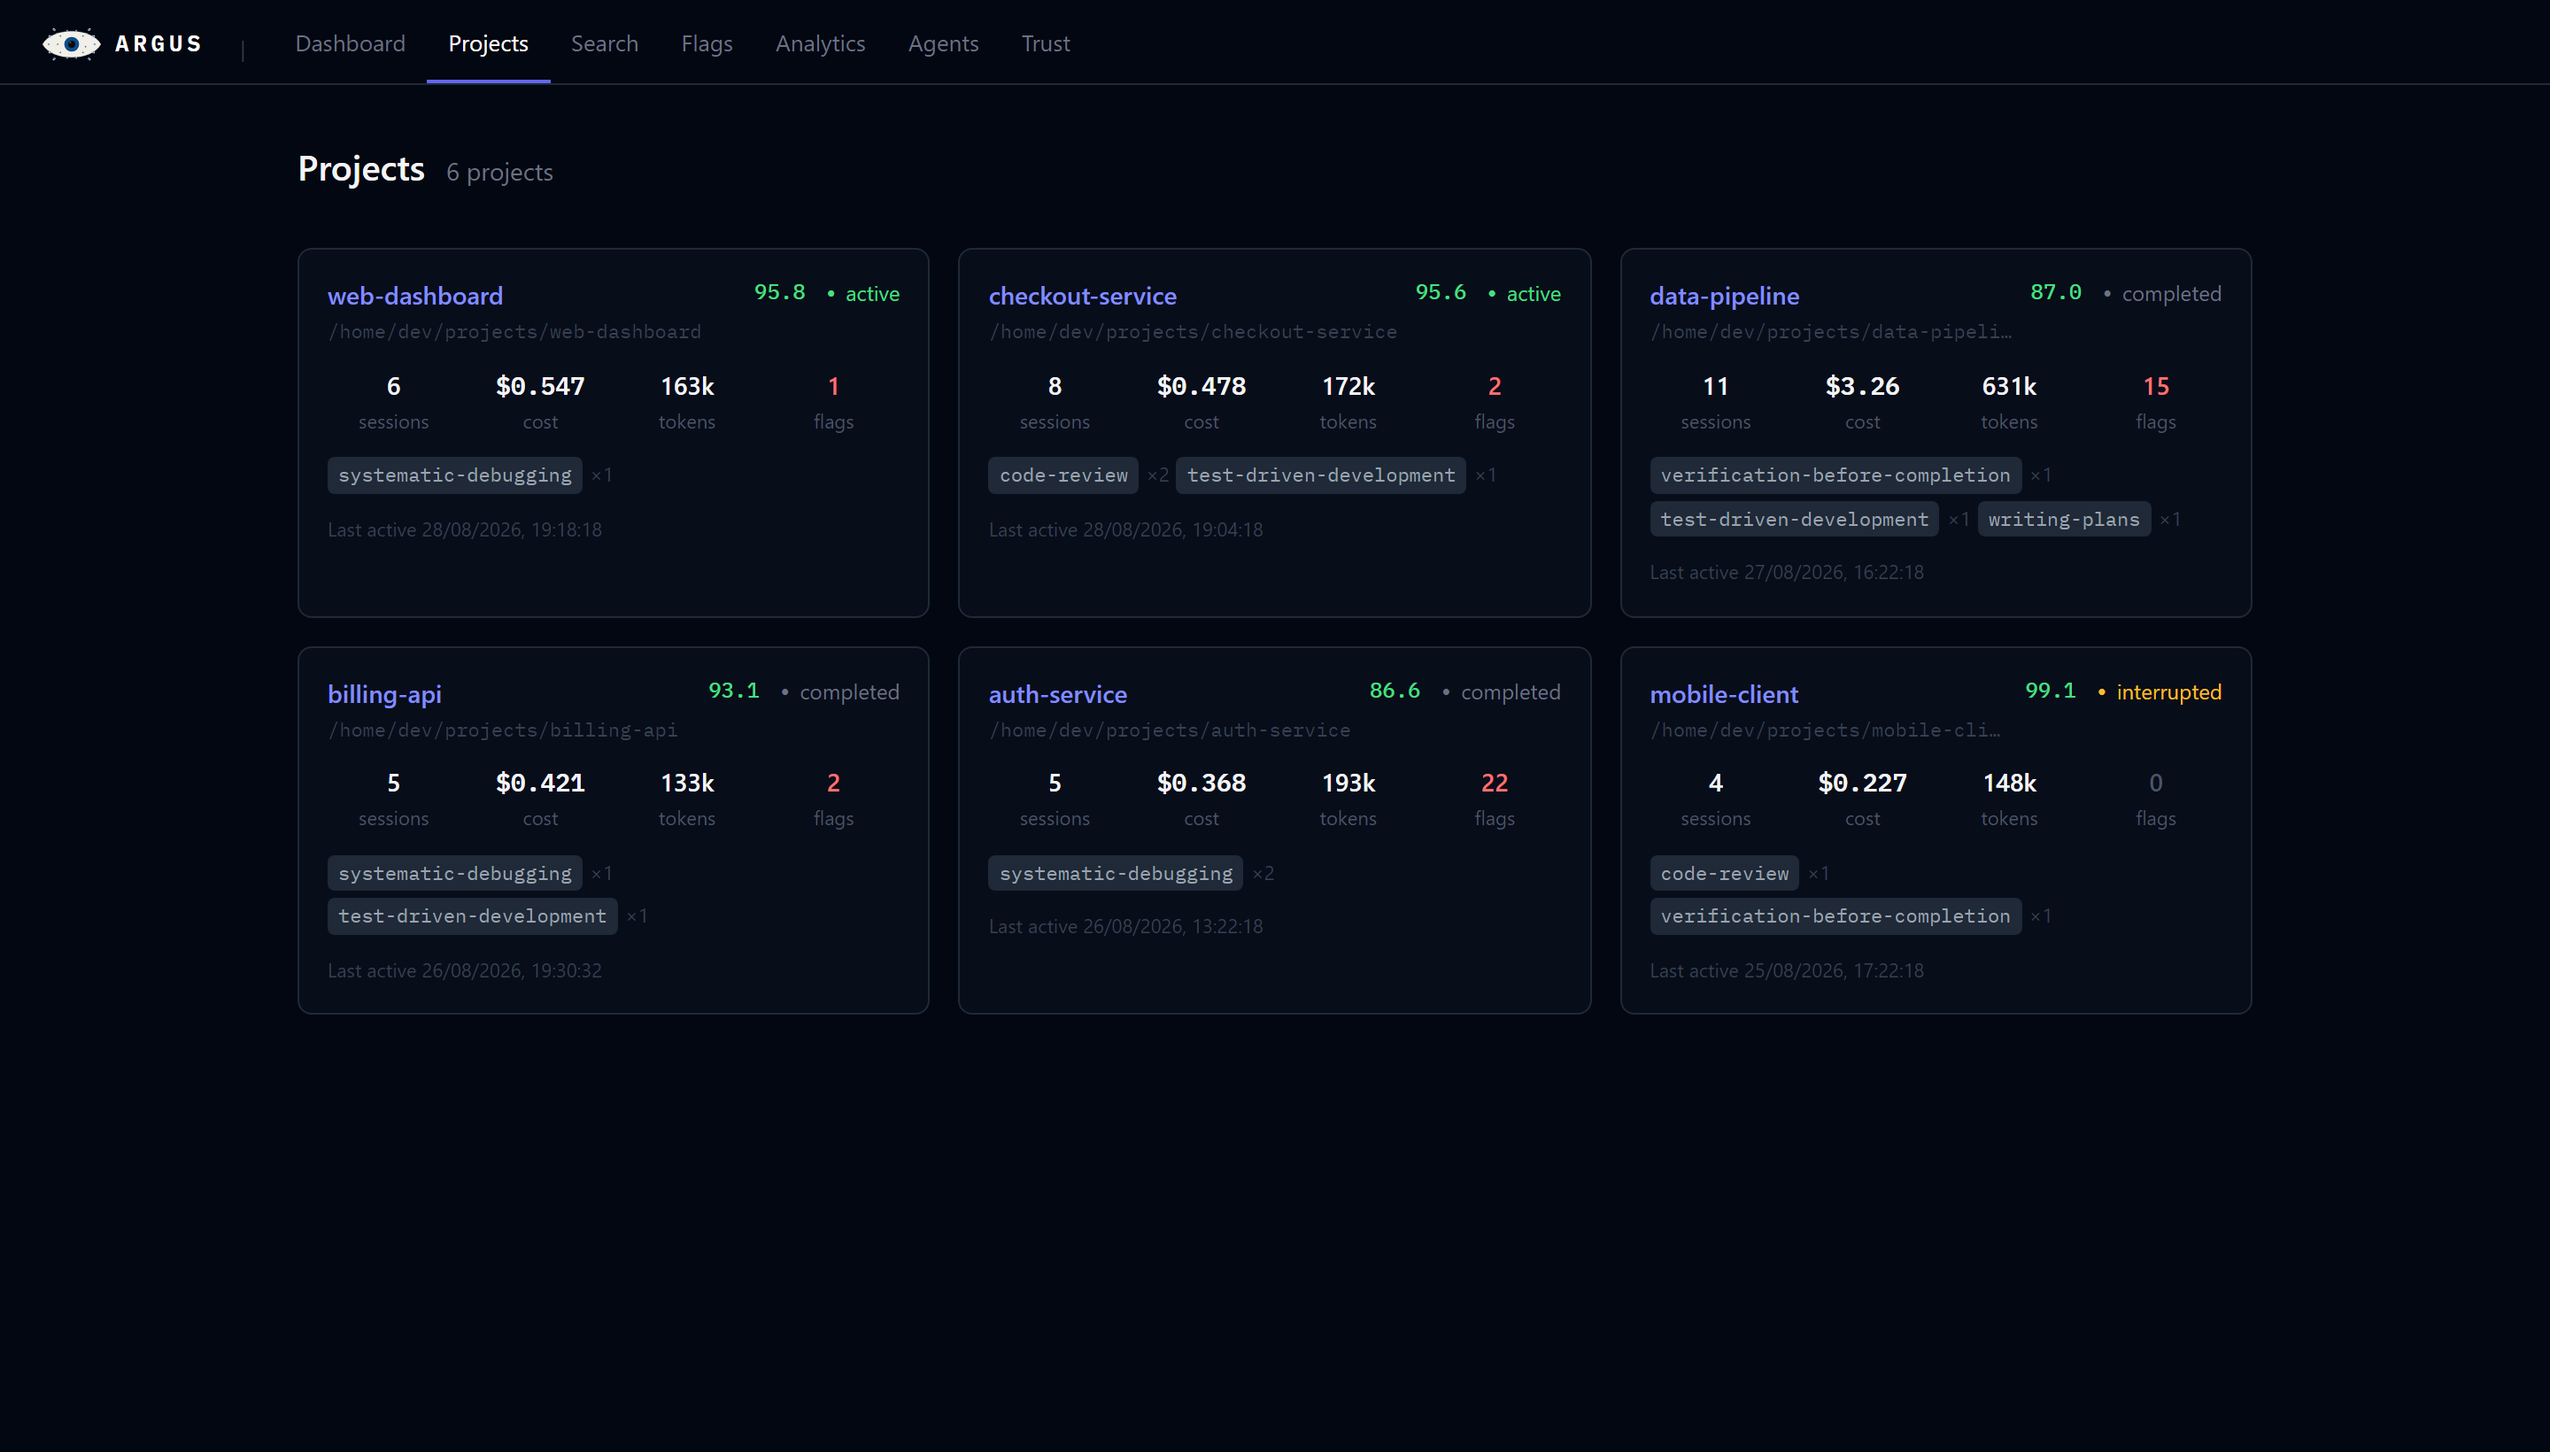
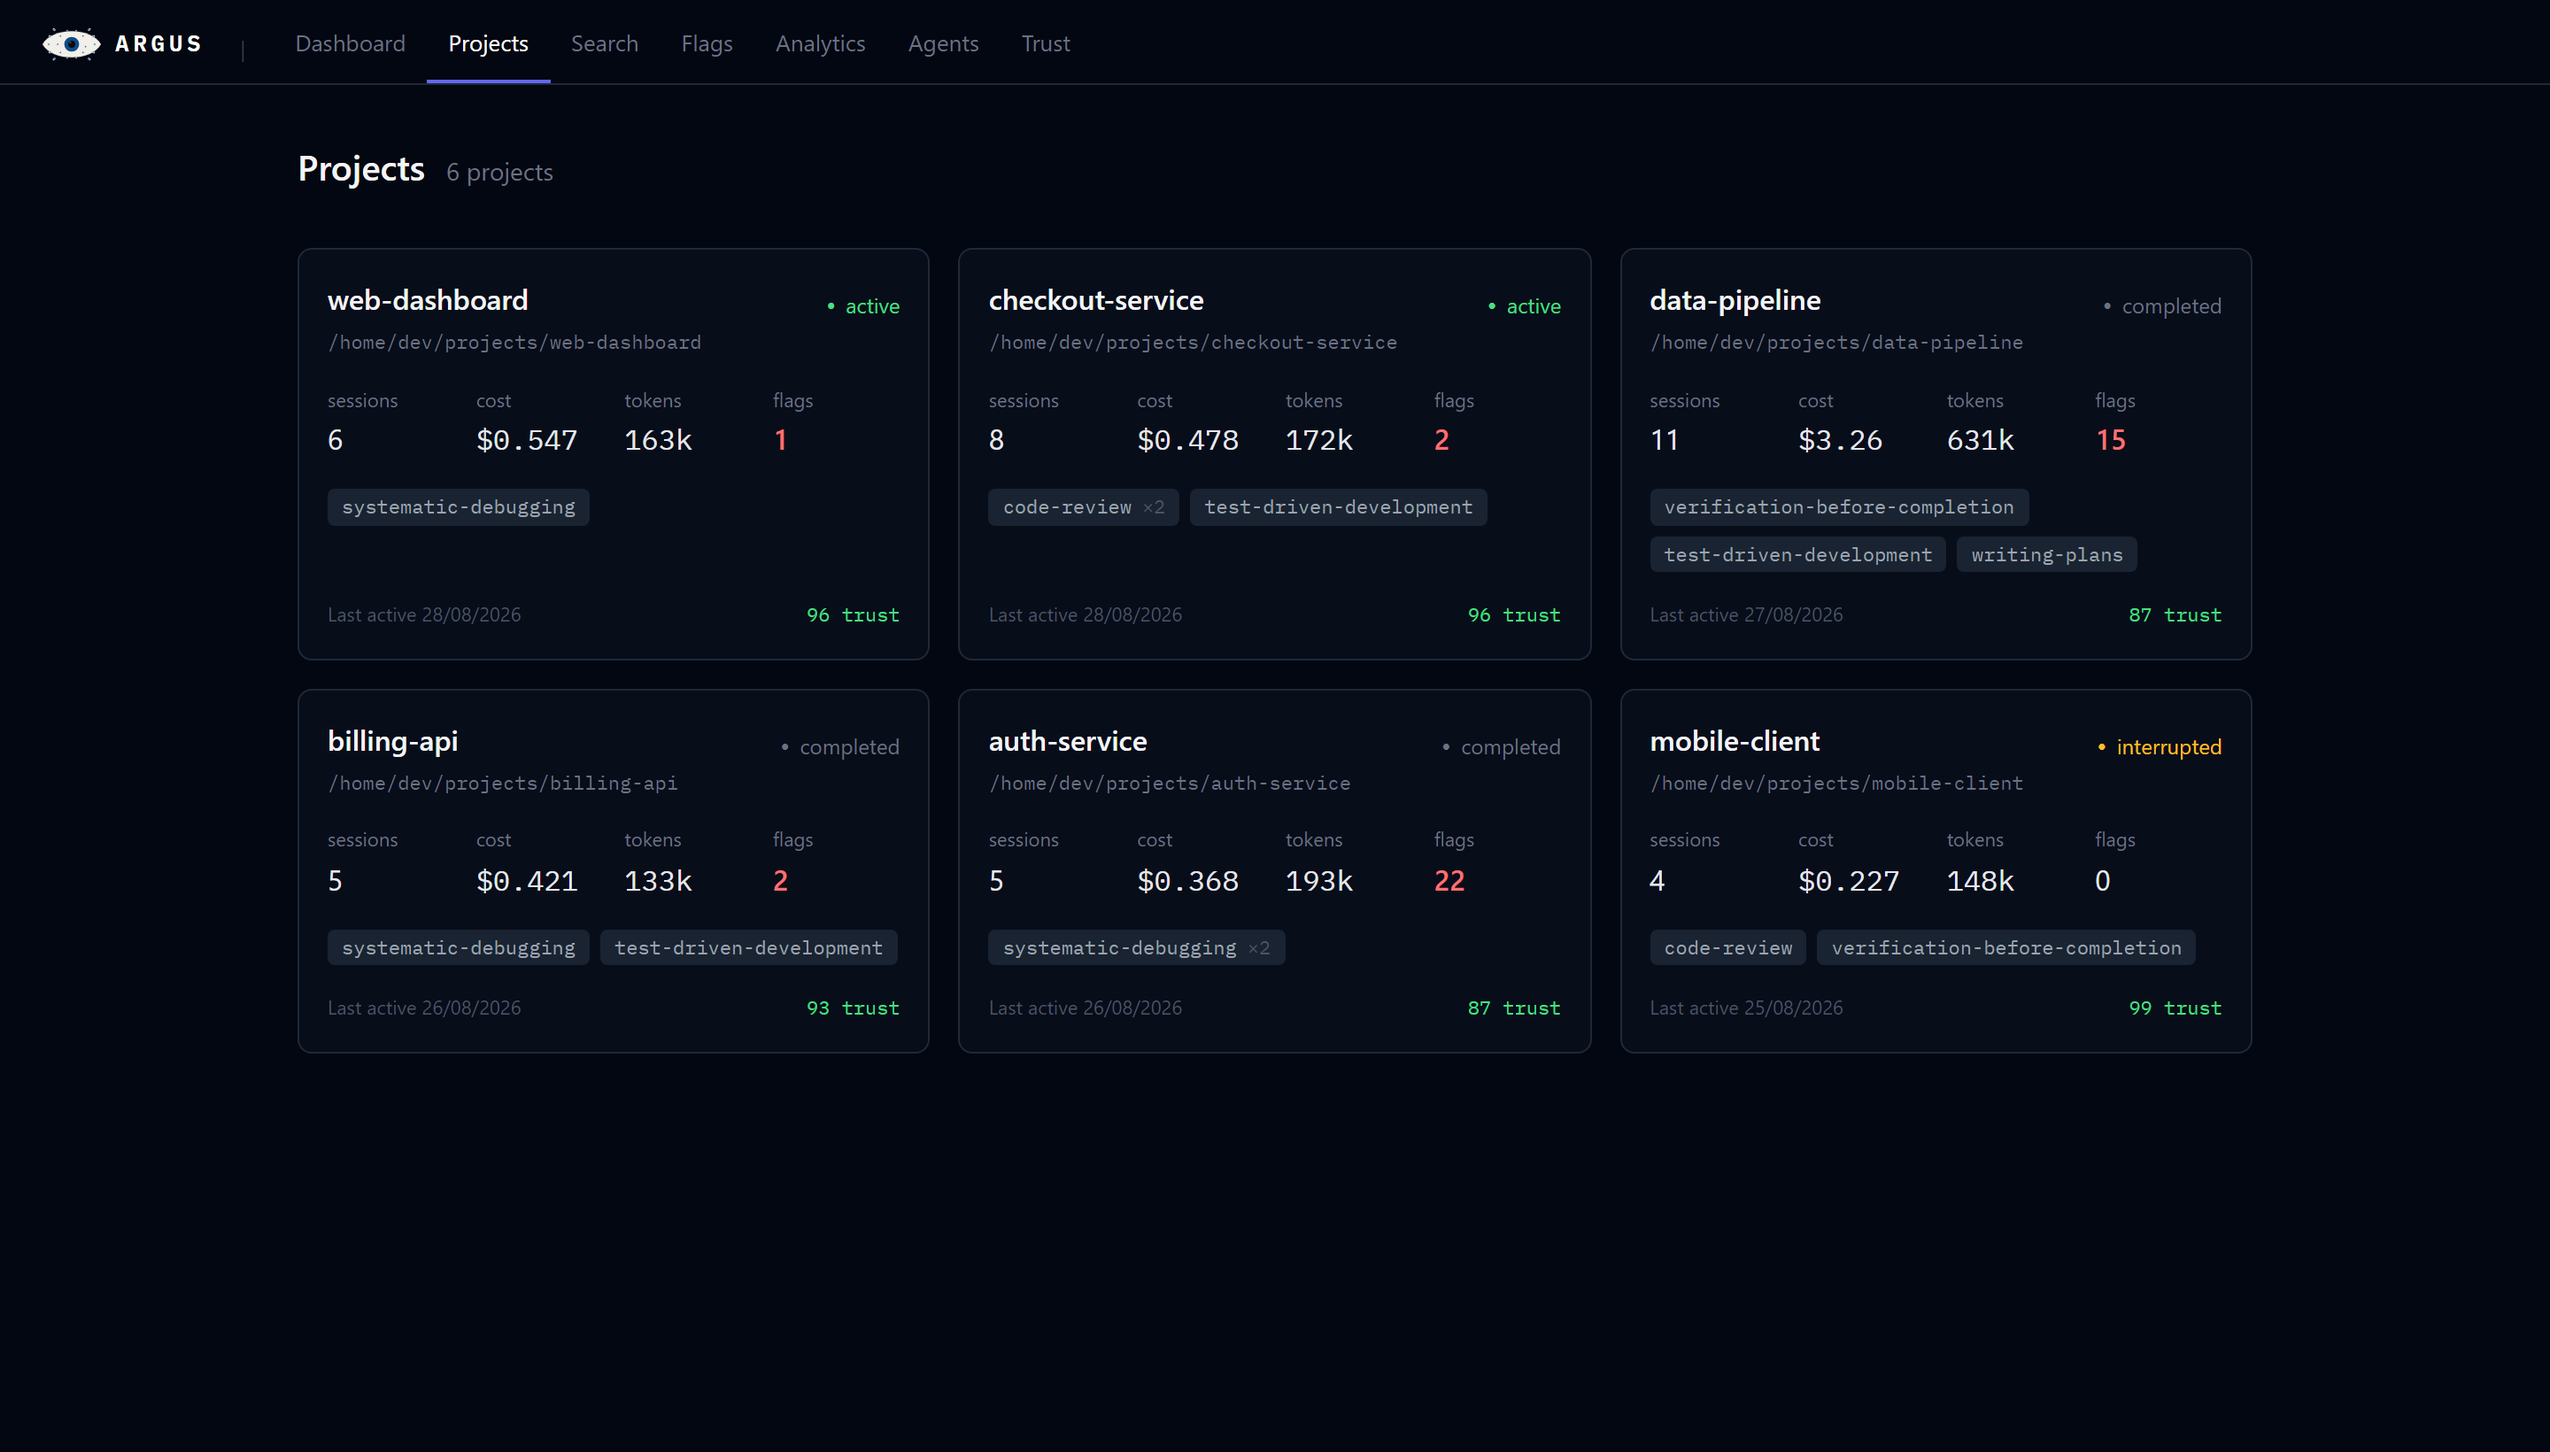
Rebuild the project card around a hierarchy
The collision was fixed but the card still read as generated, for reasons the
greps don't catch — they were structural rather than numeric.

- **Dead space.** Grid rows stretch every card to the tallest in the row, and
  the content just stopped where it stopped. Short cards ended in a block of
  empty space. Now `flex flex-col` with `mt-auto` on the footer, so the footer
  sits on the bottom edge and every card looks deliberate.

- **Broken pills.** A skill rendered as a pill followed by a loose `×1` text
  node outside it, which read as something spilling out of the pill rather than
  as one label. The count now lives inside, and only appears when it is >1 —
  `×1` on every pill was noise carrying no information.

- **No hierarchy.** The title, the four stat values and the trust score were all
  the same size and weight, in five different colours, so nothing led. Now: name
  in white, path in muted mono, stats with the label above the value (the label
  is the constant, so it anchors the column), trust demoted to the footer.

- **The header was overcrowded.** Name, trust score and status shared one line,
  which squeezed the path into truncating at ~20 characters — `/home/dev/pro…` —
  while there was room to spare. The name now owns its line and full paths are
  visible.

- **The path was `text-gray-700` on `bg-gray-900`**, close to invisible. Now
  gray-500.

Also adds the loading skeletons and the error state the page never had: it
[…]

diff --git a/frontend/src/pages/Projects.jsx b/frontend/src/pages/Projects.jsx
@@ -2,84 +2,98 @@ import { useEffect, useState } from 'react'
 import { Link } from 'react-router-dom'
 import { API } from '../App.jsx'
 import { money, tokens as fmtTokens } from '../format.js'
-import TrustBadge from '../components/TrustBadge.jsx'
 import StatusBadge from '../components/StatusBadge.jsx'
 
-function SkillPill({ name }) {
+/**
+ * One skill and its use count as a single object.
+ *
+ * These used to be a pill followed by a loose `×1` text node, which read as a
+ * broken pill with something spilling out of it rather than as one label.
+ */
+function SkillPill({ name, count }) {
   return (
-    <span className="text-[11px] px-1.5 py-0.5 rounded font-mono bg-gray-800 text-gray-400">
+    <span className="inline-flex items-baseline gap-1.5 rounded bg-gray-800/80 px-2 py-0.5 font-mono text-[11px] text-gray-400">
       {name}
+      {count > 1 && <span className="text-gray-600">×{count}</span>}
     </span>
+  )
+}
+
+/** A stat. Label above value: the label is the constant, so it anchors the column. */
+function Stat({ label, value, mono, alert }) {
+  return (
+    <div className="min-w-0">
+      <div className="text-[11px] text-gray-500">{label}</div>
+      <div
+        className={[
+          'mt-0.5 tabular-nums',
+          mono ? 'font-mono' : '',
+          alert ? 'font-semibold text-red-400' : 'text-gray-200',
+        ].join(' ')}
+      >
+        {value}
+      </div>
+    </div>
   )
 }
 
 function ProjectCard({ project }) {
   const detailUrl = `/projects/detail?${new URLSearchParams({ path: project.project_path })}`
   const tokenTotal = (project.total_input_tokens || 0) + (project.total_output_tokens || 0)
+  const trust = project.avg_trust_score
+  const trustColor =
+    trust == null ? 'text-gray-600' :
+    trust >= 80 ? 'text-green-400' :
+    trust >= 50 ? 'text-amber-400' : 'text-red-400'
 
   return (
-    <div className="border border-gray-800 rounded-lg p-4 hover:border-gray-700 transition-colors bg-gray-900/40">
-      <div className="flex items-start justify-between gap-2 mb-3">
-        <div className="min-w-0">
-          <Link
-            to={detailUrl}
-            className="text-indigo-400 hover:text-indigo-300 font-semibold text-sm block truncate"
-            title={project.project_name}
-          >
-            {project.project_name}
-          </Link>
-          <div className="text-gray-700 text-[11px] font-mono truncate mt-0.5" title={project.project_path}>
-            {project.project_path}
-          </div>
-        </div>
-        <div className="shrink-0 flex items-center gap-3">
-          <TrustBadge score={project.avg_trust_score} />
-          <StatusBadge status={project.latest_status} />
-        </div>
+    // flex-col + mt-auto on the footer: grid rows stretch every card to the
+    // tallest in the row, and without this the short cards ended with a block
+    // of dead space instead of a footer pinned to the bottom edge.
+    <div className="flex h-full flex-col rounded-lg border border-gray-800 bg-gray-900/40 p-4 transition-colors hover:border-gray-700">
+
+      {/* Name owns its own line. It previously shared one with the trust score
+          and status, which squeezed the path into truncating at ~20 characters
+          while there was room to spare. */}
+      <div className="flex items-baseline justify-between gap-3">
+        <Link
+          to={detailUrl}
+          className="truncate font-semibold text-gray-100 hover:text-indigo-300"
+          title={project.project_name}
+        >
+          {project.project_name}
+        </Link>
+        <StatusBadge status={project.latest_status} />
       </div>
 
-      {/* min-w-0 on every cell: without it a wide value renders past its own
-          column and collides with the next one ($3.258 + 630.8k read as one
-          number). Values are formatted narrower now, but the constraint is what
-          makes the layout actually safe. */}
-      <div className="grid grid-cols-4 gap-x-2 mb-3 text-center">
-        <div className="min-w-0">
-          <div className="text-sm font-semibold tabular-nums">{project.session_count}</div>
-          <div className="text-[11px] text-gray-600 mt-0.5">sessions</div>
-        </div>
-        <div className="min-w-0">
-          <div className="text-sm font-semibold font-mono tabular-nums">
-            {money(project.total_cost_usd)}
-          </div>
-          <div className="text-[11px] text-gray-600 mt-0.5">cost</div>
-        </div>
-        <div className="min-w-0">
-          <div className="text-sm font-semibold tabular-nums">{fmtTokens(tokenTotal)}</div>
-          <div className="text-[11px] text-gray-600 mt-0.5">tokens</div>
-        </div>
-        <div className="min-w-0">
-          <div className={`text-sm font-semibold tabular-nums ${project.flag_count > 0 ? 'text-red-400' : 'text-gray-600'}`}>
-            {project.flag_count}
-          </div>
-          <div className="text-[11px] text-gray-600 mt-0.5">flags</div>
-        </div>
+      <div className="mt-1 truncate font-mono text-[11px] text-gray-500" title={project.project_path}>
+        {project.project_path}
       </div>
 
-      {project.top_skills.length > 0 ? (
-        <div className="flex flex-wrap gap-1 mt-2">
+      <div className="mt-4 grid grid-cols-4 gap-x-3">
+        <Stat label="sessions" value={project.session_count} />
+        <Stat label="cost" value={money(project.total_cost_usd)} mono />
+        <Stat label="tokens" value={fmtTokens(tokenTotal)} mono />
+        <Stat label="flags" value={project.flag_count} alert={project.flag_count > 0} />
+      </div>
+
+      {project.top_skills.length > 0 && (
+        <div className="mt-4 flex flex-wrap gap-1.5">
           {project.top_skills.map(sk => (
-            <span key={sk.name} className="flex items-center gap-1">
-              <SkillPill name={sk.name} />
-              <span className="text-gray-700 text-[11px]">×{sk.count}</span>
-            </span>
+            <SkillPill key={sk.name} name={sk.name} count={sk.count} />
           ))}
         </div>
-      ) : (
-        <div className="text-[11px] text-gray-700 italic mt-2">No skills recorded</div>
       )}
 
-      <div className="text-[11px] text-gray-700 mt-3">
-        Last active {project.last_active ? new Date(project.last_active).toLocaleString() : '—'}
+      <div className="mt-auto flex items-baseline justify-between gap-3 pt-4 text-[11px] text-gray-600">
+        <span className="truncate">
+          {project.last_active
+            ? `Last active ${new Date(project.last_active).toLocaleDateString()}`
+            : 'Never active'}
+        </span>
+        <span className={`shrink-0 font-mono tabular-nums ${trustColor}`}>
+          {trust == null ? '—' : `${trust.toFixed(0)} trust`}
+        </span>
       </div>
     </div>
   )
@@ -88,31 +102,44 @@ function ProjectCard({ project }) {
 export default function Projects() {
   const [projects, setProjects] = useState([])
   const [loading, setLoading] = useState(true)
+  const [error, setError] = useState(null)
 
   useEffect(() => {
     fetch(`${API}/projects`)
-      .then(r => r.json())
+      .then(r => (r.ok ? r.json() : Promise.reject(new Error(`HTTP ${r.status}`))))
       .then(d => { setProjects(d); setLoading(false) })
-      .catch(() => setLoading(false))
+      .catch(e => { setError(e.message); setLoading(false) })
   }, [])
-
-  if (loading) return <div className="text-gray-600 text-sm py-8">Loading…</div>
 
   return (
     <div>
-      <div className="flex items-baseline gap-3 mb-8">
+      <div className="mb-8 flex items-baseline gap-3">
         <h1 className="text-xl font-semibold">Projects</h1>
-        <span className="text-sm text-gray-500">
-          {projects.length} project{projects.length !== 1 ? 's' : ''}
-        </span>
+        {!loading && !error && (
+          <span className="text-sm text-gray-500">
+            {projects.length} project{projects.length !== 1 ? 's' : ''}
+          </span>
+        )}
       </div>
 
-      {projects.length === 0 ? (
-        <p className="text-gray-600 text-sm py-12 border-t border-gray-800 text-center">
+      {loading ? (
+        // Skeletons at the real card size, so the page does not reflow when
+        // data lands.
+        <div className="grid grid-cols-1 gap-4 sm:grid-cols-2 lg:grid-cols-3">
+          {[0, 1, 2].map(i => (
+            <div key={i} className="h-44 animate-pulse rounded-lg border border-gray-800 bg-gray-900/40" />
+          ))}
+        </div>
+      ) : error ? (
+        <p className="border-t border-gray-800 py-12 text-center text-sm text-red-400">
+          Could not load projects ({error}).
+        </p>
+      ) : projects.length === 0 ? (
+        <p className="border-t border-gray-800 py-12 text-center text-sm text-gray-600">
           No sessions recorded yet. Start Claude Code with Argus hooks installed.
         </p>
       ) : (
-        <div className="grid grid-cols-1 sm:grid-cols-2 lg:grid-cols-3 gap-4">
+        <div className="grid grid-cols-1 gap-4 sm:grid-cols-2 lg:grid-cols-3">
           {projects.map(p => (
             <ProjectCard key={p.project_path} project={p} />
           ))}
